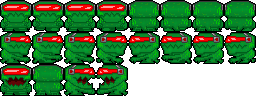
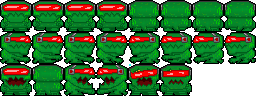
fixed bossbullets not having infinite range

Changed region(s): [[0.5, 0.6562, 0.75, 1.0]]

diff --git a/boomtolifish.rb b/boomtolifish.rb
@@ -40,9 +40,27 @@ lifish_hash = {
 	"difficulty" => "average",
 	"tracks" => [
 		{
+			"name" => "DMZ beat",
+			"author" => "Giacomo Parolini",
 			"loop" => {
 				"start" => 7.386,
 				"length" => 44.279
+			}
+		},
+		{
+			"name" => "Spirit Party",
+			"author" => "Luca Barazzetta",
+			"loop" => {
+				"start" => 3.428,
+				"length" => 106.3
+			}
+		},
+		{
+			"name" => "Tick Tock",
+			"author" => "Luca Barazzetta",
+			"loop" => {
+				"start" => 3.428,
+				"length" => 96.0
 			}
 		}
 	],
@@ -64,7 +82,7 @@ lifish_hash = {
 boom_levels.each_with_index do |level, i|
 	lv = {
 		"time" => level["Time"],
-		"music" => 1, #(i / 10).floor + 1,
+		"music" => [3, (i / 10).floor + 1].min, # TODO: all tracks
 		"tileIDs" => {
 			"bg" => (i / 10).floor + 1,
 			"border" => (i / 10).floor + 1,

diff --git a/src/PreferencesScreen.cpp b/src/PreferencesScreen.cpp
@@ -73,7 +73,7 @@ PreferencesScreen::PreferencesScreen() : Screen() {
 	elements.push_back(text);
 
 	bounds = text->getGlobalBounds();
-	text = new Game::ShadedText(font, "+", sf::Vector2f(ipadx + 200 + bounds.width + 40, pos.y));
+	text = new Game::ShadedText(font, "+", sf::Vector2f(ipadx + 200 + bounds.width + 40, pos.y - 6));
 	text->setCharacterSize(30);
 	texts["preferences::sounds_volume_up"] = text;
 

diff --git a/src/Boss.cpp b/src/Boss.cpp
@@ -11,6 +11,8 @@ Boss::Boss(const sf::Vector2f& pos) :
 	Game::Sounded({ Game::getAsset("test", "boss_death.ogg"),
 			Game::getAsset("test", "boss_hurt.ogg") })
 {
+	transparentTo.bullets = true;
+
 	sprite.setTextureRect(sf::IntRect(0, 0, SIZE * Game::TILE_SIZE, SIZE * Game::TILE_SIZE));
 
 	shootingPoints[0] = pos + sf::Vector2f(34, 36);

diff --git a/src/SidePanel.cpp b/src/SidePanel.cpp
@@ -216,7 +216,7 @@ void SidePanel::draw(sf::RenderTarget& window) {
 			Game::getAsset("fonts", Game::Fonts::SIDE_PANEL),
 			ss.str(), TIME_POS);
 	timeText.setCharacterSize(14);
-	if (seconds <= 30)
+	if (minutes < 1 && seconds <= 30)
 		timeText.setColor(sf::Color(220, 0, 0, 255), sf::Color::Black);
 	window.draw(timeText);
 }

diff --git a/src/Bullet.cpp b/src/Bullet.cpp
@@ -11,6 +11,8 @@ Bullet::Bullet(const sf::Vector2f& _pos, const std::string& texture_name) :
 	shift(0.f, 0.f)
 {
 	transparentTo.bullets = true;
+	canTeleport = false;
+	range = -1;
 
 	animations[0].setSpriteSheet(texture);
 	animations[ANIM_DEATH].setSpriteSheet(texture);
